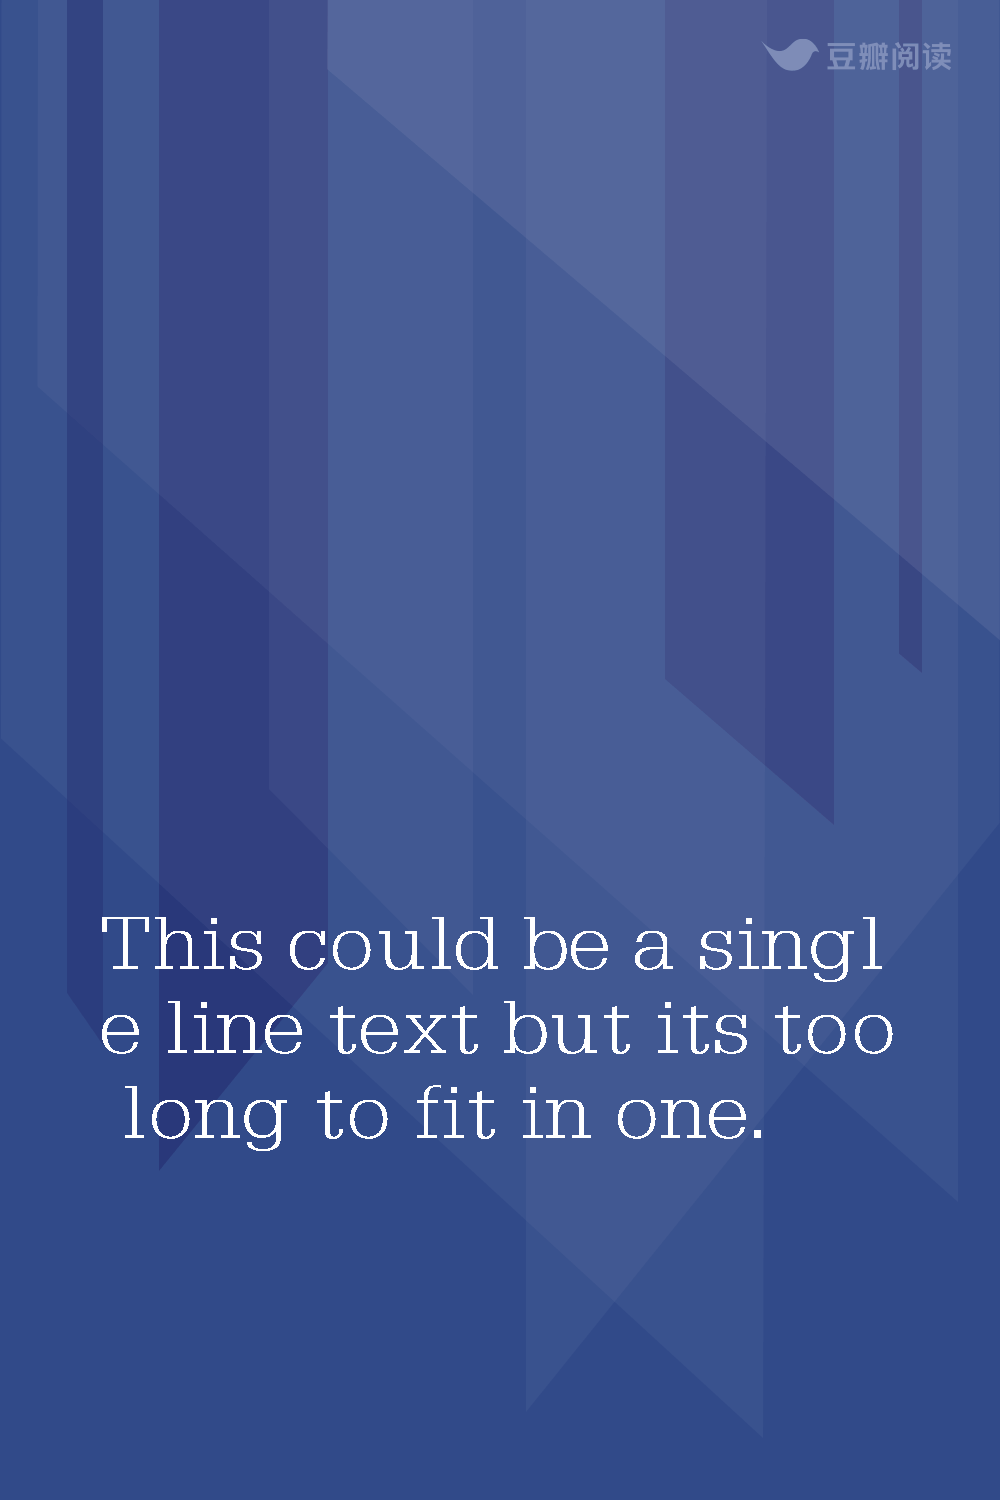
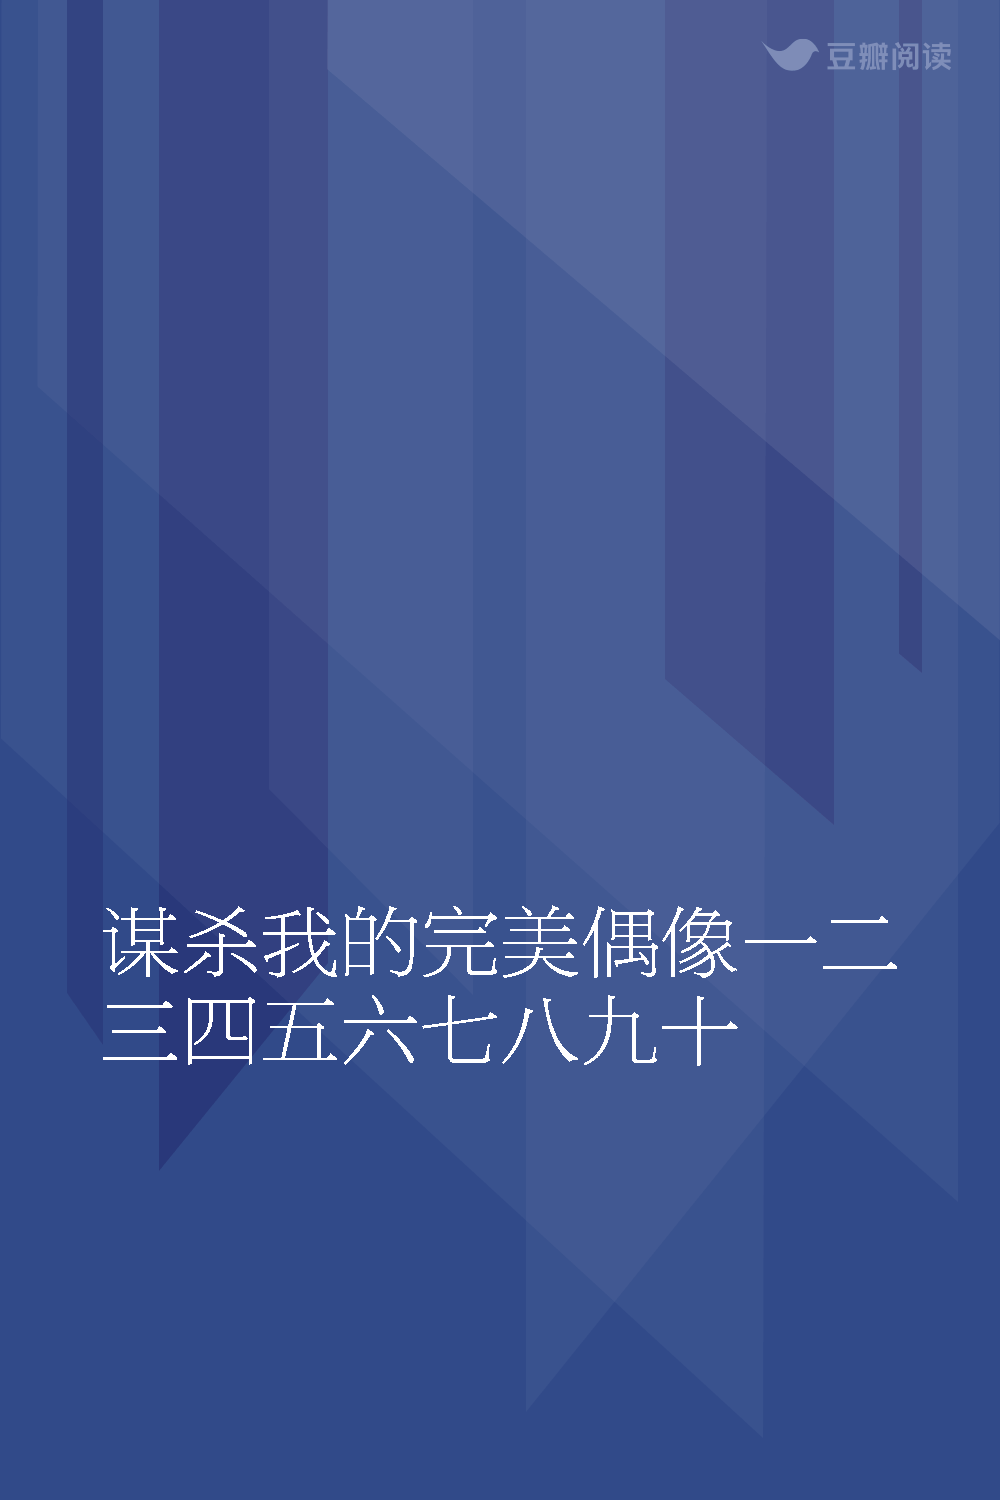
v0.2: Implement by class

diff --git a/typer2.py b/typer2.py
@@ -1,0 +1,127 @@
+#!/usr/bin/python3
+# coding: utf-8
+
+from PIL import Image, ImageFont, ImageDraw
+
+
+class Tokenizer:
+    """ 分词器
+    """
+    def parse(self, text):
+        return [s for s in text]
+
+
+class TextLayout:
+    """ 实现在矩形(box)内的文字排版功能.
+
+    Attributes:
+        text: 绘制的字符串
+        font_size_range: 字体大小范围
+        box_width: 矩形长度
+        box_height: 矩形高度
+        line_space: 行间距
+        right_padding: 右侧最大空白
+        tokenizer: 分词器
+        font: 绘制使用的字体
+        token_lines: 分成行的 token
+    """
+
+    def __init__(self, text, font_file, font_size_range, box_width, box_height, line_space, right_padding, tokenizer):
+        self.text = text
+        self.font_file = font_file
+        self.font_size_range = font_size_range
+        self.box_width = box_width
+        self.box_height = box_height
+        self.line_space = line_space
+        self.right_padding = right_padding
+        self.tokenizer = tokenizer
+        self.font = None
+        self.token_lines = []
+
+    # 寻找合适的字体
+    def _find_font(self):
+        if self.font:
+            return True
+        for size in reversed(self.font_size_range):
+            font = ImageFont.truetype(self.font_file, size)
+            if self._test_font(font):
+                self.font = font
+                return True
+        return False
+
+    # 测试使用 font 字体能否在 box 范围内绘制 text
+    def _test_font(self, font):
+        # 检查在不分词情况下是否能满足行数要求
+        # 因为 分词后的高度 >= 不分词时的高度，如果不分词时不满足，则直接返回 False
+        text_width, text_height = font.getsize(self.text)
+        max_line_number = self.box_height // (text_height + self.line_space)  # 最多可容纳多少行
+        min_lines = (text_width + self.box_width) // self.box_width  # 最少需要多少行
+        if min_lines > max_line_number:
+            return False
+
+        if not self._break_tokens_to_lines(font):
+            return False
+
+        if len(self.token_lines) > max_line_number:
+            return False
+
+        return True
+
+    # 把 token 分成多个 line
+    def _break_tokens_to_lines(self, font):
+        tokens = self.tokenizer.parse(self.text)
+        token_lines = []
+        cur_line = []
+        cur_width = 0
+        for token in tokens:
+            token_width = font.getsize(token)[0]
+            if cur_width + token_width <= self.box_width:
+                cur_width += token_width
+                cur_line.append(token)
+            else:
+                padding = self.box_width - cur_width
+                if padding > self.right_padding:
+                    return False
+                token_lines.append(cur_line)
+                cur_line = [token]
+                cur_width = token_width
+        if cur_line:
+            token_lines.append(cur_line)
+
+        self.token_lines = token_lines
+        return True
+
+    def draw(self, x, y, image, color=255):
+        if not self._find_font():
+            raise RuntimeError('Failed to find suitable font')
+        draw = ImageDraw.Draw(image)
+        for tokens in self.token_lines:
+            text = ''.join(tokens)
+            draw.text((x, y), text, font=self.font, fill=color)
+            y += self.font.getsize(text)[1]
+            y += self.line_space
+
+
+if __name__ == '__main__':
+    text = '谋杀我的完美偶像一二三四五六七八九十'
+    image = Image.open('./1.png')
+    box_width = int(image.size[0] * 0.8)
+    box_height = int(image.size[1] * 0.2)
+    left = int(image.size[0] * 0.1)
+    top = int(image.size[1] * 0.6)
+
+    # 以 box_height 为字体大小上限, 3 为间隔
+    max_font_size = box_height
+    min_font_size = 5
+    font_size_range = range(min_font_size, max_font_size, 3)
+
+    tl = TextLayout(
+        text,
+        './FONT.ttf', font_size_range,
+        box_width, box_height,
+        line_space=10,
+        right_padding=10,
+        tokenizer=Tokenizer()
+    )
+    tl.draw(left, top, image)
+    image.save('./result/sample-out.png')

diff --git a/typer.py b/typer.py
@@ -1,12 +1,16 @@
 # coding: utf-8
 
-# 不可使用 PIL 及 Python 标准库以外的第三方库
-from types import FunctionType
 from PIL import Image, ImageFont, ImageDraw
+
+import string
 
 
 def is_chinese(c):
     return u'\u4e00' <= c <= u'\u9fff'
+
+
+def is_punctuation(c):
+    return c in string.punctuation or c in '。，？‘’“”《》'
 
 
 # 分词
@@ -71,7 +75,7 @@ def draw_lines(x, y, image, font, token_lines, line_height, color=255):
 
 
 if __name__ == '__main__':
-    text = '谋杀我的完美完美完美完美完美完美偶像偶像'
+    text = '谋杀我的完美完美完美完美完美完美偶像偶像谋杀我的完美完美完美完美完美完美偶像偶像'
     image = Image.open("./1.png")
     width, height = int(image.size[0] * 0.8), int(image.size[1] * 0.2)
     x, y = int(image.size[0] * 0.1), int(image.size[1] * 0.6)
